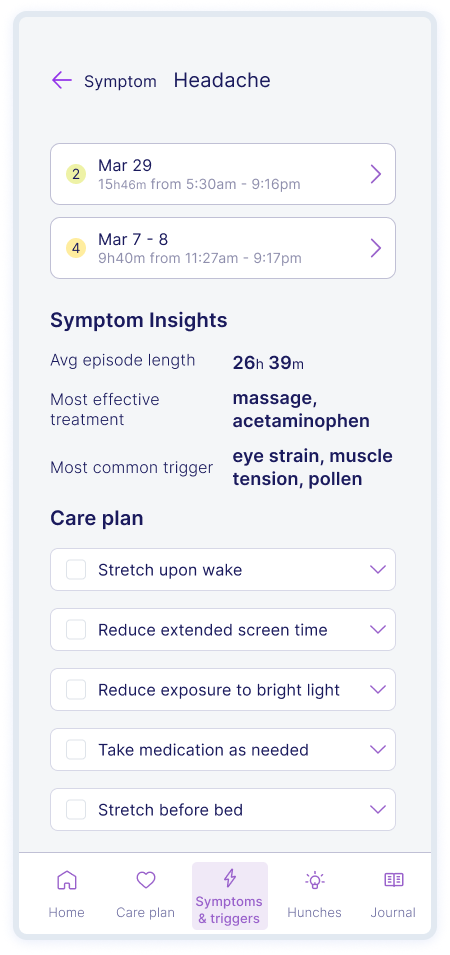
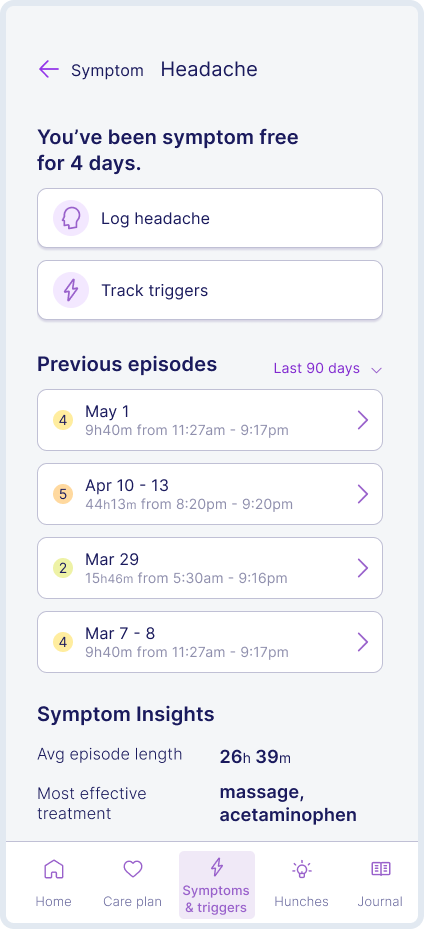
fixing some mobile issues and added some to the lhl case study

diff --git a/src/pages/work/living-health-lab.js b/src/pages/work/living-health-lab.js
@@ -57,6 +57,9 @@ const Page = () => (
             <div className="one-3-col">
               <img src="/images/lhl/home.png" alt="home" className="max-ht" />
             </div>
+            <div className="one-3-col">
+              <img src="/images/lhl/symptom_add.png" alt="home" className="max-ht" />
+            </div>
           </div>
         </div>
 
@@ -143,19 +146,23 @@ const Page = () => (
               <p>Provide recommendations based on current symptoms and historical trends. For example, guided mindfulness sessions or scheduled breaks when detecting increased stress, or suggesting follow up with a healthcare provider. (Apply caution regarding medical advice.)</p>
               <p>Allow users to set personalized health goals and use AI to generate adaptive care plan with step-by-step recommendations, educational content, and progress trackers to support users in following their care plan with incremental behavioral adjustments.</p>
             </div>
-            <div className="one-col">
+            <div className="one-col col-center">
               <img src="/images/lhl/careplan.png" alt="journal" className="max-ht" />
             </div>
           </div>
-          
-          <h4>Enhanced Patient Engagement</h4>
-          <p>Visualizations of health data that correlate symptoms, lifestyle factors, and care plan progress helps users see the impact of behaviors over time. Smart recommendations can help patients integrate healthy habits into their routine and better manage their health.</p>
           
           <h4>Robust Data Security and Privacy Controls</h4>
           <p>Allow users to control which data is shared and with whom (opt-in). Clearly communicate data handling practices to build trust. At baseline, data is private and localized, while data for analysis purposes is de-identified.</p>
           <p>Ensure all data, both at rest and in transit, is encrypted. Offer an anonymous mode for users tracking sensitive or stigmatized conditions.</p>
           <p>Use plain language to communicate transparent data policies and educate users about app data use, user data rights, and security measures in place.</p>
-          <iframe width="412" height="917" src="https://embed.figma.com/proto/AibfY6qEN3Emj5uAHB9Zcw/Jen-stuff?page-id=0%3A1&node-id=1-336&viewport=-203%2C-148%2C0.17&scaling=scale-down&content-scaling=fixed&embed-host=share" allowfullscreen></iframe>
+          <div className="frame-container lhl-frame">
+            <iframe  
+              id="lhl-figma"
+              width="100%"
+              height="917px"
+              src="https://embed.figma.com/proto/AibfY6qEN3Emj5uAHB9Zcw/Jen-stuff?page-id=0%3A1&node-id=1-336&viewport=-203%2C-148%2C0.17&scaling=scale-down&content-scaling=fixed&embed-host=share" 
+            ></iframe>
+          </div>
         </div>
 
     </div>

diff --git a/src/styles/_projects.scss b/src/styles/_projects.scss
@@ -4,9 +4,19 @@
 	flex-wrap: wrap;
 	justify-content: space-between;
 	
+	@media only screen and (max-width: $bp-medium) {
+		flex-direction: column;
+		justify-content: center;
+		align-items: center;
+	}
+	
     .projectCardWrapper {
 		width: 48%;
       	margin: 25px 0;
+		  @media only screen and (max-width: $bp-medium) {
+			width: 100%;
+		}
+		
   	}
     .projectCard {
 		.projectHero {
@@ -116,6 +126,12 @@
 			}
 		}
 	}
+	.frame-container {
+		margin: 0 auto;
+		&.lhl-frame {
+			max-width: 412px;
+		}
+	}
 	#references {
 		margin-top: 50px;
 		 a {
@@ -123,4 +139,5 @@
 			text-decoration: underline;
 		 }
 	}
+	
 }

diff --git a/src/styles/_layout.scss b/src/styles/_layout.scss
@@ -48,10 +48,23 @@ header, footer {
 		vertical-align: top;
 		width: 48%;
 		padding-right: 20px;
+		&.col-center {
+			display: flex;
+			img {
+				justify-content: center;
+				align-items: center;
+				text-align: center;
+				margin: 0 auto;
+			}
+		}
 		@media only screen and (max-width: $bp-medium) {
 			width: 100%;
 			padding-right: 0;
 		}
+	}
+	.one-3-col {
+		width: 30%;
+		padding-right: 20px;
 	}
 }
 
@@ -127,7 +140,7 @@ hr {
 
 .backProjects {
 	text-align: center;
-	margin: 80px;
+	margin: 80px 0 80px 0;
 }
 
 .margin-top {
